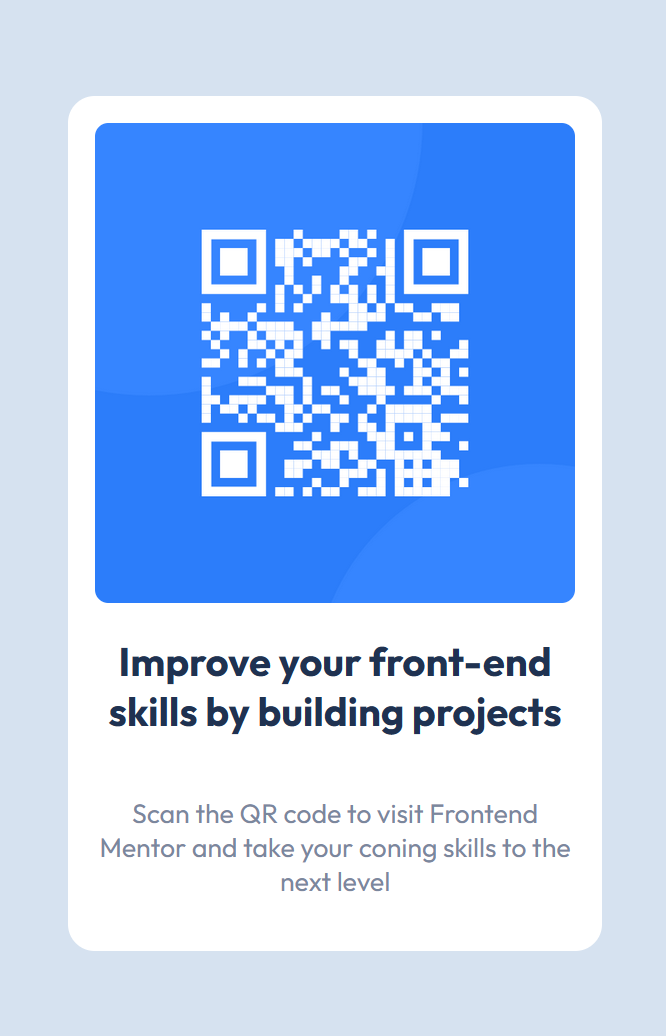
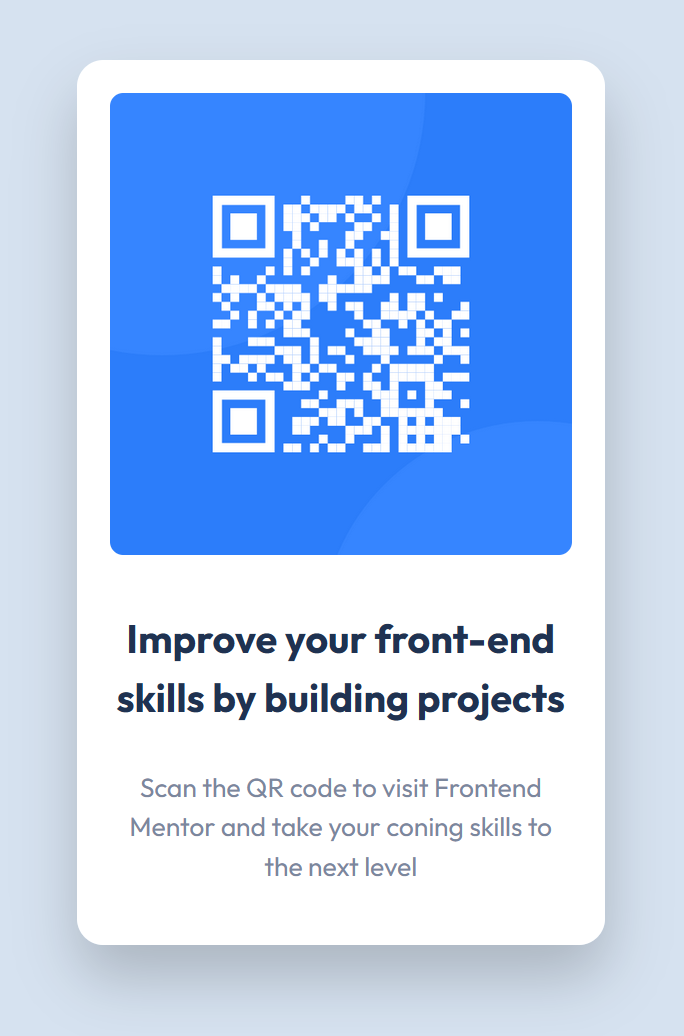
see previous commt

Changed region(s): [[0.0901, 0.0309, 0.9009, 0.9575], [0.3003, 0.1853, 0.7207, 0.4942]]

diff --git a/styles.css b/styles.css
@@ -1,3 +1,79 @@
+/* Box sizing rules */
+*,
+*::before,
+*::after {
+  box-sizing: border-box;
+}
+
+/* Remove default margin */
+body,
+h1,
+h2,
+h3,
+h4,
+p,
+figure,
+blockquote,
+dl,
+dd {
+  margin: 0;
+}
+
+/* Remove list styles on ul, ol elements with a list role, which suggests default styling will be removed */
+ul[role='list'],
+ol[role='list'] {
+  list-style: none;
+}
+
+/* Set core root defaults */
+html:focus-within {
+  scroll-behavior: smooth;
+}
+
+/* Set core body defaults */
+body {
+  min-height: 100vh;
+  text-rendering: optimizeSpeed;
+  line-height: 1.5;
+}
+
+/* A elements that don't have a class get default styles */
+a:not([class]) {
+  text-decoration-skip-ink: auto;
+}
+
+/* Make images easier to work with */
+img,
+picture {
+  max-width: 100%;
+  display: block;
+}
+
+/* Inherit fonts for inputs and buttons */
+input,
+button,
+textarea,
+select {
+  font: inherit;
+}
+
+/* Remove all animations, transitions and smooth scroll for people that prefer not to see them */
+@media (prefers-reduced-motion: reduce) {
+  html:focus-within {
+   scroll-behavior: auto;
+  }
+  
+  *,
+  *::before,
+  *::after {
+    animation-duration: 0.01ms !important;
+    animation-iteration-count: 1 !important;
+    transition-duration: 0.01ms !important;
+    scroll-behavior: auto !important;
+  }
+}
+
+
 :root{
     --color-white: hsl(0, 0%, 100%);
     --color-lightgray: hsl(212, 45%, 89%);
@@ -10,35 +86,28 @@
     --fw-700: 700;
 }
 
-html,
 body{
-    height: 100%;
-}
-
-*{
-    margin:0;
-    padding: 0
-}
-
-
-body{
+    height: 100vh;
     background: var(--color-lightgray);
     font-family: var(--ff-base);
     font-size: var(--fs-base);
-    align-items: center;
-    
+    align-items: center; 
+    color: var(--color-grayishblue);
+    font-weight: var(--fw-400);
+    font-size: 1rem;
 }
 
-div{
+main{
+    margin:20px;
     background: var(--color-white);
-    width: 18rem;
-    padding:1rem;
+    width: 20rem;
+    padding: 1.25rem;
     border-radius: 1rem;
     text-align: center;
-    box-shadow: 0 1rem 1rem lightgray;
+    box-shadow: 0px 20px 35px 0px rgba(0,0,0,0.2);
 }
 
-h2{
+h1{
     color: var(--color-darkblue);
     font-weight: var(--fw-700);
     font-size: 1.5rem;
@@ -50,20 +119,13 @@ img {
     width:100%;
 }
 
-p {
+p{
     margin-top: 1.5rem;
     margin-bottom: 1rem;
-    color: var(--color-grayishblue);
-    font-weight: var(--fw-400);
-    font-size: 1rem;
 }
 
 .flex{
     display: flex;
     flex-direction: column;
     justify-content: center;
-}
-
-@media (max-width: 375px) {
-
 }
